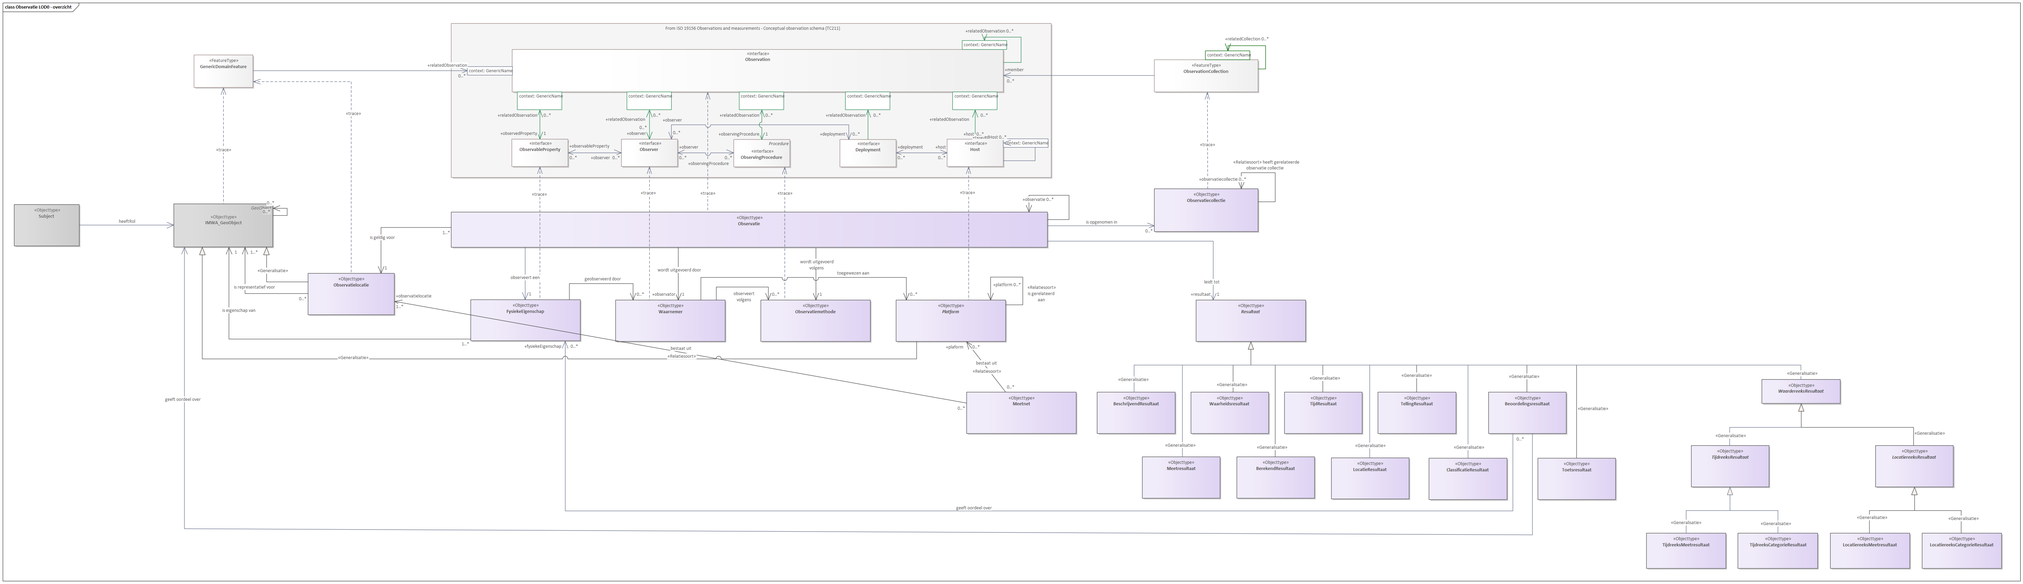
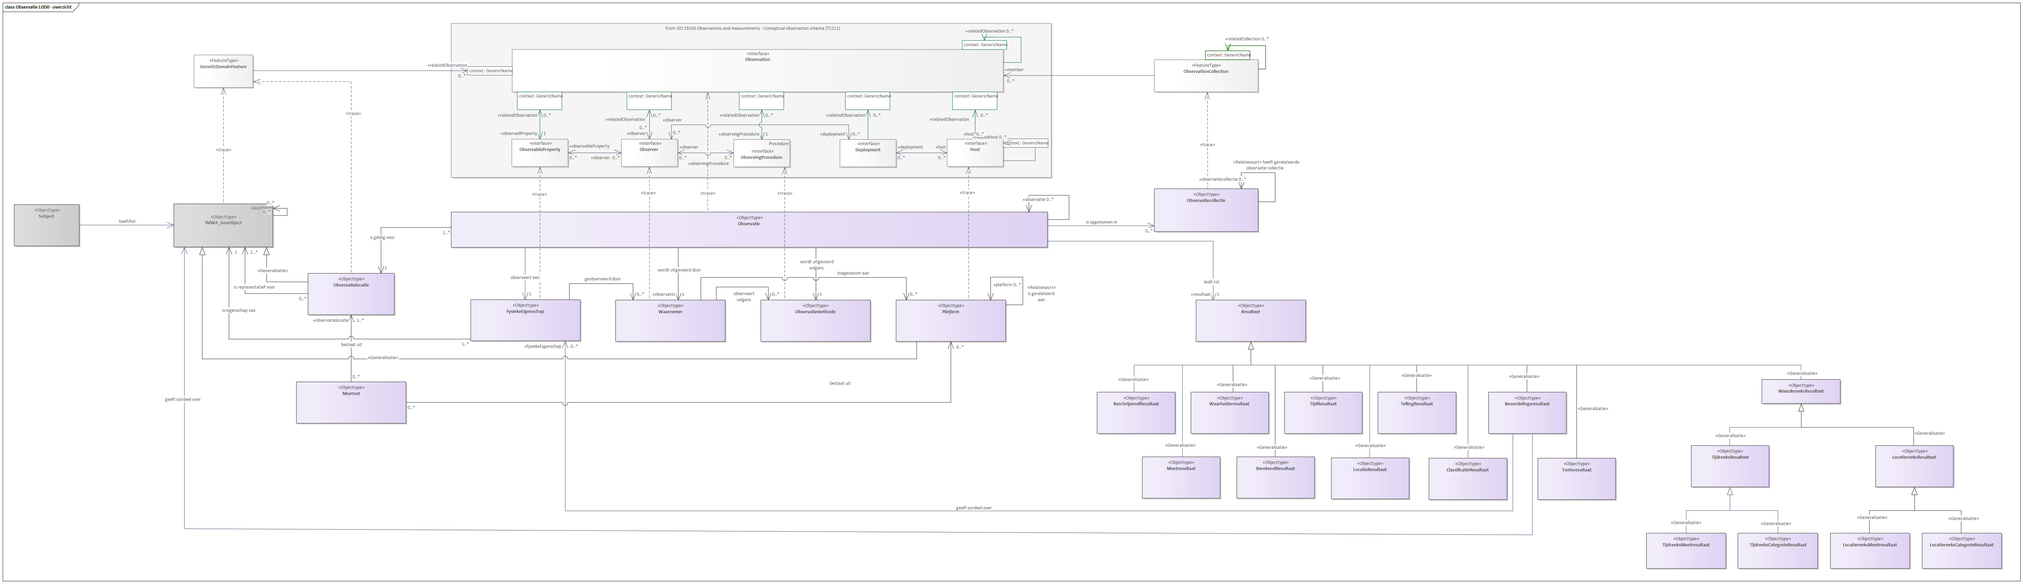
CONCEPTUAL-IMWAObservaties-2024.0.0-1-20250626-20260730-163026

diff --git a/data/IMWA-O-cat.respec.full.html b/data/IMWA-O-cat.respec.full.html
@@ -17,7 +17,7 @@
                             Status van dit document ...HIER INVOEGEN
                         </p></section><section id="prologue" class="informative" level="1"><h1>Proloog</h1><p>
                             Introductie ...HIER INVOEGEN
-                        </p></section><section id="cat" class="normative"><h2>Gegevensdefinitie</h2><p><b>Deze tekst is normatief.</b><!--CONCEPTUAL-IMWAObservaties-2024.0.0-1-20250626-20260730-110358 imvertor 4.5.0--></p><section id="global_package_Observatie"><h3>Domein   Observatie</h3><div class="imageinfo overview"><figure class="uml-diagram"><img id="EAID_2D4FC88F_53DB_44ec_A546_9F9D6DDCCFB6" src="data/Images/EAID_2D4FC88F_53DB_44ec_A546_9F9D6DDCCFB6.png" usemap="#imagemap-EAID_2D4FC88F_53DB_44ec_A546_9F9D6DDCCFB6" alt="Diagram: Observatie LOD0 - overzicht"><figcaption> ‒ Diagram: Observatie LOD0</figcaption></figure><map name="imagemap-EAID_2D4FC88F_53DB_44ec_A546_9F9D6DDCCFB6"><area shape="rect" alt="Observatielocatie" coords="899,798,1152,920" href="#global_class_Observatie_Observatielocatie"><area shape="rect" alt="Toetsresultaat" coords="4490,1338,4718,1460" href="#global_class_Observatie_Toetsresultaat"><area shape="rect" alt="Beoordelingsresultaat" coords="4346,1145,4574,1267" href="#global_class_Observatie_Beoordelingsresultaat"><area shape="rect" alt="LocatiereeksCategorieResultaat" coords="5612,1557,5845,1661" href="#global_class_Observatie_LocatiereeksCategorieResultaat"><area shape="rect" alt="LocatiereeksMeetresultaat" coords="5344,1557,5577,1661" href="#global_class_Observatie_LocatiereeksMeetresultaat"><area shape="rect" alt="Meetnet" coords="2822,1145,3143,1267" href="#global_class_Observatie_Meetnet"><area shape="rect" alt="BerekendResultaat" coords="3611,1334,3839,1456" href="#global_class_Observatie_BerekendResultaat"><area shape="rect" alt="TijdResultaat" coords="3750,1145,3978,1267" href="#global_class_Observatie_TijdResultaat"><area shape="rect" alt="TellingResultaat" coords="4023,1145,4252,1267" href="#global_class_Observatie_TellingResultaat"><area shape="rect" alt="Waarheidsresultaat" coords="3477,1145,3705,1267" href="#global_class_Observatie_Waarheidsresultaat"><area shape="rect" alt="Meetresultaat" coords="3335,1334,3563,1456" href="#global_class_Observatie_Meetresultaat"><area shape="rect" alt="LocatiereeksResultaat" coords="5476,1301,5704,1423" href="#global_class_Observatie_LocatiereeksResultaat"><area shape="rect" alt="TijdreeksCategorieResultaat" coords="5074,1557,5308,1661" href="#global_class_Observatie_TijdreeksCategorieResultaat"><area shape="rect" alt="TijdreeksMeetresultaat" coords="4807,1557,5040,1661" href="#global_class_Observatie_TijdreeksMeetresultaat"><area shape="rect" alt="TijdreeksResultaat" coords="4938,1301,5166,1423" href="#global_class_Observatie_TijdreeksResultaat"><area shape="rect" alt="WaardereeksResultaat" coords="5144,1108,5374,1179" href="#global_class_Observatie_WaardereeksResultaat"><area shape="rect" alt="ClassificatieResultaat" coords="4172,1338,4401,1460" href="#global_class_Observatie_ClassificatieResultaat"><area shape="rect" alt="LocatieResultaat" coords="3887,1337,4115,1458" href="#global_class_Observatie_LocatieResultaat"><area shape="rect" alt="BeschrijvendResultaat" coords="3203,1145,3432,1267" href="#global_class_Observatie_BeschrijvendResultaat"><area shape="rect" alt="Resultaat" coords="3492,876,3813,998" href="#global_class_Observatie_Resultaat"><area shape="rect" alt="Observatie" coords="1317,619,3059,723" href="#global_class_Observatie_Observatie"><area shape="rect" alt="Observatiecollectie" coords="3370,551,3674,677" href="#global_class_Observatie_Observatiecollectie"><area shape="rect" alt="Platform" coords="2616,876,2937,998" href="#global_class_Observatie_Platform"><area shape="rect" alt="Observatiemethode" coords="2221,876,2542,998" href="#global_class_Observatie_Observatiemethode"><area shape="rect" alt="Waarnemer" coords="1797,876,2118,998" href="#global_class_Observatie_Waarnemer"><area shape="rect" alt="FysiekeEigenschap" coords="1374,875,1695,996" href="#global_class_Observatie_FysiekeEigenschap"></map><p>
+                        </p></section><section id="cat" class="normative"><h2>Gegevensdefinitie</h2><p><b>Deze tekst is normatief.</b><!--CONCEPTUAL-IMWAObservaties-2024.0.0-1-20250626-20260730-163026 imvertor 4.5.0--></p><section id="global_package_Observatie"><h3>Domein   Observatie</h3><div class="imageinfo overview"><figure class="uml-diagram"><img id="EAID_2D4FC88F_53DB_44ec_A546_9F9D6DDCCFB6" src="data/Images/EAID_2D4FC88F_53DB_44ec_A546_9F9D6DDCCFB6.png" usemap="#imagemap-EAID_2D4FC88F_53DB_44ec_A546_9F9D6DDCCFB6" alt="Diagram: Observatie LOD0 - overzicht"><figcaption> ‒ Diagram: Observatie LOD0</figcaption></figure><map name="imagemap-EAID_2D4FC88F_53DB_44ec_A546_9F9D6DDCCFB6"><area shape="rect" alt="Observatielocatie" coords="899,798,1152,920" href="#global_class_Observatie_Observatielocatie"><area shape="rect" alt="Toetsresultaat" coords="4490,1338,4718,1460" href="#global_class_Observatie_Toetsresultaat"><area shape="rect" alt="Beoordelingsresultaat" coords="4346,1145,4574,1267" href="#global_class_Observatie_Beoordelingsresultaat"><area shape="rect" alt="LocatiereeksCategorieResultaat" coords="5612,1557,5845,1661" href="#global_class_Observatie_LocatiereeksCategorieResultaat"><area shape="rect" alt="LocatiereeksMeetresultaat" coords="5344,1557,5577,1661" href="#global_class_Observatie_LocatiereeksMeetresultaat"><area shape="rect" alt="Meetnet" coords="865,1115,1186,1237" href="#global_class_Observatie_Meetnet"><area shape="rect" alt="BerekendResultaat" coords="3611,1334,3839,1456" href="#global_class_Observatie_BerekendResultaat"><area shape="rect" alt="TijdResultaat" coords="3750,1145,3978,1267" href="#global_class_Observatie_TijdResultaat"><area shape="rect" alt="TellingResultaat" coords="4023,1145,4252,1267" href="#global_class_Observatie_TellingResultaat"><area shape="rect" alt="Waarheidsresultaat" coords="3477,1145,3705,1267" href="#global_class_Observatie_Waarheidsresultaat"><area shape="rect" alt="Meetresultaat" coords="3335,1334,3563,1456" href="#global_class_Observatie_Meetresultaat"><area shape="rect" alt="LocatiereeksResultaat" coords="5476,1301,5704,1423" href="#global_class_Observatie_LocatiereeksResultaat"><area shape="rect" alt="TijdreeksCategorieResultaat" coords="5074,1557,5308,1661" href="#global_class_Observatie_TijdreeksCategorieResultaat"><area shape="rect" alt="TijdreeksMeetresultaat" coords="4807,1557,5040,1661" href="#global_class_Observatie_TijdreeksMeetresultaat"><area shape="rect" alt="TijdreeksResultaat" coords="4938,1301,5166,1423" href="#global_class_Observatie_TijdreeksResultaat"><area shape="rect" alt="WaardereeksResultaat" coords="5144,1108,5374,1179" href="#global_class_Observatie_WaardereeksResultaat"><area shape="rect" alt="ClassificatieResultaat" coords="4172,1338,4401,1460" href="#global_class_Observatie_ClassificatieResultaat"><area shape="rect" alt="LocatieResultaat" coords="3887,1337,4115,1458" href="#global_class_Observatie_LocatieResultaat"><area shape="rect" alt="BeschrijvendResultaat" coords="3203,1145,3432,1267" href="#global_class_Observatie_BeschrijvendResultaat"><area shape="rect" alt="Resultaat" coords="3492,876,3813,998" href="#global_class_Observatie_Resultaat"><area shape="rect" alt="Observatie" coords="1317,619,3059,723" href="#global_class_Observatie_Observatie"><area shape="rect" alt="Observatiecollectie" coords="3370,551,3674,677" href="#global_class_Observatie_Observatiecollectie"><area shape="rect" alt="Platform" coords="2616,876,2937,998" href="#global_class_Observatie_Platform"><area shape="rect" alt="Observatiemethode" coords="2221,876,2542,998" href="#global_class_Observatie_Observatiemethode"><area shape="rect" alt="Waarnemer" coords="1797,876,2118,998" href="#global_class_Observatie_Waarnemer"><area shape="rect" alt="FysiekeEigenschap" coords="1374,875,1695,996" href="#global_class_Observatie_FysiekeEigenschap"></map><p>
                         <p></p>
                      </p></div><div class="imageinfo overview"><figure class="uml-diagram"><img id="EAID_8A1E1EBA_82F3_4d9c_B88D_4ACFD9DF67E0" src="data/Images/EAID_8A1E1EBA_82F3_4d9c_B88D_4ACFD9DF67E0.png" usemap="#imagemap-EAID_8A1E1EBA_82F3_4d9c_B88D_4ACFD9DF67E0" alt="Diagram: Observatie LOD1 - overzicht"><figcaption> ‒ Diagram: Observatie LOD1</figcaption></figure><map name="imagemap-EAID_8A1E1EBA_82F3_4d9c_B88D_4ACFD9DF67E0"><area shape="rect" alt="Parameter" coords="1013,1241,1304,1434" href="#global_class_Observatie_Parameter"><area shape="rect" alt="MetingTijdreeksResultaat" coords="5217,1913,5497,2076" href="#global_class_Observatie_MetingTijdreeksResultaat"><area shape="rect" alt="ObservatieRelatie" coords="3255,429,3578,540" href="#global_class_Observatie_ObservatieRelatie"><area shape="rect" alt="Beoordelingsresultaat" coords="4839,1466,5200,1665" href="#global_class_Observatie_Beoordelingsresultaat"><area shape="rect" alt="Observatielocatie" coords="853,944,1118,1123" href="#global_class_Observatie_Observatielocatie"><area shape="rect" alt="Toetsresultaat" coords="4727,1244,5088,1442" href="#global_class_Observatie_Toetsresultaat"><area shape="rect" alt="BiologischeParameterkenmerk" coords="1779,1245,2075,1442" href="#global_class_Observatie_BiologischeParameterkenmerk"><area shape="rect" alt="Parameterkenmerk" coords="1327,1241,1740,1558" href="#global_class_Observatie_Parameterkenmerk"><area shape="rect" alt="GrootheidOfTypering" coords="1047,1453,1267,1574" href="#global_class_Observatie_GrootheidOfTypering"><area shape="rect" alt="Detectiegrens" coords="2306,1226,2669,1365" href="#global_class_Observatie_Detectiegrens"><area shape="rect" alt="CategorieLocatiereeksResultaat" coords="6456,1913,6805,2095" href="#global_class_Observatie_CategorieLocatiereeksResultaat"><area shape="rect" alt="MetingLocatiereeksResultaat" coords="6024,1913,6335,2112" href="#global_class_Observatie_MetingLocatiereeksResultaat"><area shape="rect" alt="LocatiereeksCategorieResultaat" coords="6408,1782,6851,1902" href="#global_class_Observatie_LocatiereeksCategorieResultaat"><area shape="rect" alt="LocatiereeksMeetresultaat" coords="5976,1782,6382,1902" href="#global_class_Observatie_LocatiereeksMeetresultaat"><area shape="rect" alt="MetadataResultaat" coords="4100,969,4461,1149" href="#global_class_Observatie_MetadataResultaat"><area shape="rect" alt="MetadataWaardereeksResultaat" coords="6190,1184,6546,1399" href="#global_class_Observatie_MetadataWaardereeksResultaat"><area shape="rect" alt="MetadataReeksPunt" coords="5830,2127,6139,2284" href="#global_class_Observatie_MetadataReeksPunt"><area shape="rect" alt="CategorieTijdreeksResultaat" coords="5614,1913,5896,2076" href="#global_class_Observatie_CategorieTijdreeksResultaat"><area shape="rect" alt="Meetnet" coords="514,1249,876,1424" href="#global_class_Observatie_Meetnet"><area shape="rect" alt="BerekendResultaat" coords="3702,1442,4062,1573" href="#global_class_Observatie_BerekendResultaat"><area shape="rect" alt="TijdResultaat" coords="3992,1244,4220,1375" href="#global_class_Observatie_TijdResultaat"><area shape="rect" alt="TellingResultaat" coords="4294,1244,4660,1406" href="#global_class_Observatie_TellingResultaat"><area shape="rect" alt="Waarheidsresultaat" coords="3695,1244,3924,1387" href="#global_class_Observatie_Waarheidsresultaat"><area shape="rect" alt="Meetresultaat" coords="3328,1442,3689,1573" href="#global_class_Observatie_Meetresultaat"><area shape="rect" alt="LocatiereeksResultaat" coords="6190,1516,6423,1637" href="#global_class_Observatie_LocatiereeksResultaat"><area shape="rect" alt="TijdreeksCategorieResultaat" coords="5553,1784,5957,1902" href="#global_class_Observatie_TijdreeksCategorieResultaat"><area shape="rect" alt="TijdreeksMeetresultaat" coords="5166,1784,5534,1902" href="#global_class_Observatie_TijdreeksMeetresultaat"><area shape="rect" alt="TijdreeksResultaat" coords="5487,1516,5721,1637" href="#global_class_Observatie_TijdreeksResultaat"><area shape="rect" alt="WaardereeksResultaat" coords="5826,1257,6176,1379" href="#global_class_Observatie_WaardereeksResultaat"><area shape="rect" alt="ResultaatKwaliteit" coords="4484,973,4837,1145" href="#global_class_Observatie_ResultaatKwaliteit"><area shape="rect" alt="ClassificatieResultaat" coords="4484,1442,4711,1573" href="#global_class_Observatie_ClassificatieResultaat"><area shape="rect" alt="LocatieResultaat" coords="4073,1442,4469,1573" href="#global_class_Observatie_LocatieResultaat"><area shape="rect" alt="BeschrijvendResultaat" coords="3396,1244,3624,1375" href="#global_class_Observatie_BeschrijvendResultaat"><area shape="rect" alt="Resultaat" coords="3690,966,4040,1141" href="#global_class_Observatie_Resultaat"><area shape="rect" alt="Observatie" coords="1144,596,3272,815" href="#global_class_Observatie_Observatie"><area shape="rect" alt="Observatiecollectie" coords="3500,597,3842,737" href="#global_class_Observatie_Observatiecollectie"><area shape="rect" alt="Platform" coords="2732,946,3143,1156" href="#global_class_Observatie_Platform"><area shape="rect" alt="Observatiemethode" coords="2282,946,2692,1197" href="#global_class_Observatie_Observatiemethode"><area shape="rect" alt="Waarnemer" coords="1835,947,2244,1166" href="#global_class_Observatie_Waarnemer"><area shape="rect" alt="FysiekeEigenschap" coords="1274,946,1779,1190" href="#global_class_Observatie_FysiekeEigenschap"></map><p>
                         <p></p>

diff --git a/data/IMWA-O-cat.respec.html b/data/IMWA-O-cat.respec.html
@@ -1,4 +1,4 @@
-<!DOCTYPE HTML><section id="cat" class="normative"><h2>Gegevensdefinitie</h2><p><b>Deze tekst is normatief.</b><!--CONCEPTUAL-IMWAObservaties-2024.0.0-1-20250626-20260730-110358 imvertor 4.5.0--></p><section id="global_package_Observatie"><h3>Domein   Observatie</h3><div class="imageinfo overview"><figure class="uml-diagram"><img id="EAID_2D4FC88F_53DB_44ec_A546_9F9D6DDCCFB6" src="data/Images/EAID_2D4FC88F_53DB_44ec_A546_9F9D6DDCCFB6.png" usemap="#imagemap-EAID_2D4FC88F_53DB_44ec_A546_9F9D6DDCCFB6" alt="Diagram: Observatie LOD0 - overzicht"><figcaption> ‒ Diagram: Observatie LOD0</figcaption></figure><map name="imagemap-EAID_2D4FC88F_53DB_44ec_A546_9F9D6DDCCFB6"><area shape="rect" alt="Observatielocatie" coords="899,798,1152,920" href="#global_class_Observatie_Observatielocatie"><area shape="rect" alt="Toetsresultaat" coords="4490,1338,4718,1460" href="#global_class_Observatie_Toetsresultaat"><area shape="rect" alt="Beoordelingsresultaat" coords="4346,1145,4574,1267" href="#global_class_Observatie_Beoordelingsresultaat"><area shape="rect" alt="LocatiereeksCategorieResultaat" coords="5612,1557,5845,1661" href="#global_class_Observatie_LocatiereeksCategorieResultaat"><area shape="rect" alt="LocatiereeksMeetresultaat" coords="5344,1557,5577,1661" href="#global_class_Observatie_LocatiereeksMeetresultaat"><area shape="rect" alt="Meetnet" coords="2822,1145,3143,1267" href="#global_class_Observatie_Meetnet"><area shape="rect" alt="BerekendResultaat" coords="3611,1334,3839,1456" href="#global_class_Observatie_BerekendResultaat"><area shape="rect" alt="TijdResultaat" coords="3750,1145,3978,1267" href="#global_class_Observatie_TijdResultaat"><area shape="rect" alt="TellingResultaat" coords="4023,1145,4252,1267" href="#global_class_Observatie_TellingResultaat"><area shape="rect" alt="Waarheidsresultaat" coords="3477,1145,3705,1267" href="#global_class_Observatie_Waarheidsresultaat"><area shape="rect" alt="Meetresultaat" coords="3335,1334,3563,1456" href="#global_class_Observatie_Meetresultaat"><area shape="rect" alt="LocatiereeksResultaat" coords="5476,1301,5704,1423" href="#global_class_Observatie_LocatiereeksResultaat"><area shape="rect" alt="TijdreeksCategorieResultaat" coords="5074,1557,5308,1661" href="#global_class_Observatie_TijdreeksCategorieResultaat"><area shape="rect" alt="TijdreeksMeetresultaat" coords="4807,1557,5040,1661" href="#global_class_Observatie_TijdreeksMeetresultaat"><area shape="rect" alt="TijdreeksResultaat" coords="4938,1301,5166,1423" href="#global_class_Observatie_TijdreeksResultaat"><area shape="rect" alt="WaardereeksResultaat" coords="5144,1108,5374,1179" href="#global_class_Observatie_WaardereeksResultaat"><area shape="rect" alt="ClassificatieResultaat" coords="4172,1338,4401,1460" href="#global_class_Observatie_ClassificatieResultaat"><area shape="rect" alt="LocatieResultaat" coords="3887,1337,4115,1458" href="#global_class_Observatie_LocatieResultaat"><area shape="rect" alt="BeschrijvendResultaat" coords="3203,1145,3432,1267" href="#global_class_Observatie_BeschrijvendResultaat"><area shape="rect" alt="Resultaat" coords="3492,876,3813,998" href="#global_class_Observatie_Resultaat"><area shape="rect" alt="Observatie" coords="1317,619,3059,723" href="#global_class_Observatie_Observatie"><area shape="rect" alt="Observatiecollectie" coords="3370,551,3674,677" href="#global_class_Observatie_Observatiecollectie"><area shape="rect" alt="Platform" coords="2616,876,2937,998" href="#global_class_Observatie_Platform"><area shape="rect" alt="Observatiemethode" coords="2221,876,2542,998" href="#global_class_Observatie_Observatiemethode"><area shape="rect" alt="Waarnemer" coords="1797,876,2118,998" href="#global_class_Observatie_Waarnemer"><area shape="rect" alt="FysiekeEigenschap" coords="1374,875,1695,996" href="#global_class_Observatie_FysiekeEigenschap"></map><p>
+<!DOCTYPE HTML><section id="cat" class="normative"><h2>Gegevensdefinitie</h2><p><b>Deze tekst is normatief.</b><!--CONCEPTUAL-IMWAObservaties-2024.0.0-1-20250626-20260730-163026 imvertor 4.5.0--></p><section id="global_package_Observatie"><h3>Domein   Observatie</h3><div class="imageinfo overview"><figure class="uml-diagram"><img id="EAID_2D4FC88F_53DB_44ec_A546_9F9D6DDCCFB6" src="data/Images/EAID_2D4FC88F_53DB_44ec_A546_9F9D6DDCCFB6.png" usemap="#imagemap-EAID_2D4FC88F_53DB_44ec_A546_9F9D6DDCCFB6" alt="Diagram: Observatie LOD0 - overzicht"><figcaption> ‒ Diagram: Observatie LOD0</figcaption></figure><map name="imagemap-EAID_2D4FC88F_53DB_44ec_A546_9F9D6DDCCFB6"><area shape="rect" alt="Observatielocatie" coords="899,798,1152,920" href="#global_class_Observatie_Observatielocatie"><area shape="rect" alt="Toetsresultaat" coords="4490,1338,4718,1460" href="#global_class_Observatie_Toetsresultaat"><area shape="rect" alt="Beoordelingsresultaat" coords="4346,1145,4574,1267" href="#global_class_Observatie_Beoordelingsresultaat"><area shape="rect" alt="LocatiereeksCategorieResultaat" coords="5612,1557,5845,1661" href="#global_class_Observatie_LocatiereeksCategorieResultaat"><area shape="rect" alt="LocatiereeksMeetresultaat" coords="5344,1557,5577,1661" href="#global_class_Observatie_LocatiereeksMeetresultaat"><area shape="rect" alt="Meetnet" coords="865,1115,1186,1237" href="#global_class_Observatie_Meetnet"><area shape="rect" alt="BerekendResultaat" coords="3611,1334,3839,1456" href="#global_class_Observatie_BerekendResultaat"><area shape="rect" alt="TijdResultaat" coords="3750,1145,3978,1267" href="#global_class_Observatie_TijdResultaat"><area shape="rect" alt="TellingResultaat" coords="4023,1145,4252,1267" href="#global_class_Observatie_TellingResultaat"><area shape="rect" alt="Waarheidsresultaat" coords="3477,1145,3705,1267" href="#global_class_Observatie_Waarheidsresultaat"><area shape="rect" alt="Meetresultaat" coords="3335,1334,3563,1456" href="#global_class_Observatie_Meetresultaat"><area shape="rect" alt="LocatiereeksResultaat" coords="5476,1301,5704,1423" href="#global_class_Observatie_LocatiereeksResultaat"><area shape="rect" alt="TijdreeksCategorieResultaat" coords="5074,1557,5308,1661" href="#global_class_Observatie_TijdreeksCategorieResultaat"><area shape="rect" alt="TijdreeksMeetresultaat" coords="4807,1557,5040,1661" href="#global_class_Observatie_TijdreeksMeetresultaat"><area shape="rect" alt="TijdreeksResultaat" coords="4938,1301,5166,1423" href="#global_class_Observatie_TijdreeksResultaat"><area shape="rect" alt="WaardereeksResultaat" coords="5144,1108,5374,1179" href="#global_class_Observatie_WaardereeksResultaat"><area shape="rect" alt="ClassificatieResultaat" coords="4172,1338,4401,1460" href="#global_class_Observatie_ClassificatieResultaat"><area shape="rect" alt="LocatieResultaat" coords="3887,1337,4115,1458" href="#global_class_Observatie_LocatieResultaat"><area shape="rect" alt="BeschrijvendResultaat" coords="3203,1145,3432,1267" href="#global_class_Observatie_BeschrijvendResultaat"><area shape="rect" alt="Resultaat" coords="3492,876,3813,998" href="#global_class_Observatie_Resultaat"><area shape="rect" alt="Observatie" coords="1317,619,3059,723" href="#global_class_Observatie_Observatie"><area shape="rect" alt="Observatiecollectie" coords="3370,551,3674,677" href="#global_class_Observatie_Observatiecollectie"><area shape="rect" alt="Platform" coords="2616,876,2937,998" href="#global_class_Observatie_Platform"><area shape="rect" alt="Observatiemethode" coords="2221,876,2542,998" href="#global_class_Observatie_Observatiemethode"><area shape="rect" alt="Waarnemer" coords="1797,876,2118,998" href="#global_class_Observatie_Waarnemer"><area shape="rect" alt="FysiekeEigenschap" coords="1374,875,1695,996" href="#global_class_Observatie_FysiekeEigenschap"></map><p>
                         <p></p>
                      </p></div><div class="imageinfo overview"><figure class="uml-diagram"><img id="EAID_8A1E1EBA_82F3_4d9c_B88D_4ACFD9DF67E0" src="data/Images/EAID_8A1E1EBA_82F3_4d9c_B88D_4ACFD9DF67E0.png" usemap="#imagemap-EAID_8A1E1EBA_82F3_4d9c_B88D_4ACFD9DF67E0" alt="Diagram: Observatie LOD1 - overzicht"><figcaption> ‒ Diagram: Observatie LOD1</figcaption></figure><map name="imagemap-EAID_8A1E1EBA_82F3_4d9c_B88D_4ACFD9DF67E0"><area shape="rect" alt="Parameter" coords="1013,1241,1304,1434" href="#global_class_Observatie_Parameter"><area shape="rect" alt="MetingTijdreeksResultaat" coords="5217,1913,5497,2076" href="#global_class_Observatie_MetingTijdreeksResultaat"><area shape="rect" alt="ObservatieRelatie" coords="3255,429,3578,540" href="#global_class_Observatie_ObservatieRelatie"><area shape="rect" alt="Beoordelingsresultaat" coords="4839,1466,5200,1665" href="#global_class_Observatie_Beoordelingsresultaat"><area shape="rect" alt="Observatielocatie" coords="853,944,1118,1123" href="#global_class_Observatie_Observatielocatie"><area shape="rect" alt="Toetsresultaat" coords="4727,1244,5088,1442" href="#global_class_Observatie_Toetsresultaat"><area shape="rect" alt="BiologischeParameterkenmerk" coords="1779,1245,2075,1442" href="#global_class_Observatie_BiologischeParameterkenmerk"><area shape="rect" alt="Parameterkenmerk" coords="1327,1241,1740,1558" href="#global_class_Observatie_Parameterkenmerk"><area shape="rect" alt="GrootheidOfTypering" coords="1047,1453,1267,1574" href="#global_class_Observatie_GrootheidOfTypering"><area shape="rect" alt="Detectiegrens" coords="2306,1226,2669,1365" href="#global_class_Observatie_Detectiegrens"><area shape="rect" alt="CategorieLocatiereeksResultaat" coords="6456,1913,6805,2095" href="#global_class_Observatie_CategorieLocatiereeksResultaat"><area shape="rect" alt="MetingLocatiereeksResultaat" coords="6024,1913,6335,2112" href="#global_class_Observatie_MetingLocatiereeksResultaat"><area shape="rect" alt="LocatiereeksCategorieResultaat" coords="6408,1782,6851,1902" href="#global_class_Observatie_LocatiereeksCategorieResultaat"><area shape="rect" alt="LocatiereeksMeetresultaat" coords="5976,1782,6382,1902" href="#global_class_Observatie_LocatiereeksMeetresultaat"><area shape="rect" alt="MetadataResultaat" coords="4100,969,4461,1149" href="#global_class_Observatie_MetadataResultaat"><area shape="rect" alt="MetadataWaardereeksResultaat" coords="6190,1184,6546,1399" href="#global_class_Observatie_MetadataWaardereeksResultaat"><area shape="rect" alt="MetadataReeksPunt" coords="5830,2127,6139,2284" href="#global_class_Observatie_MetadataReeksPunt"><area shape="rect" alt="CategorieTijdreeksResultaat" coords="5614,1913,5896,2076" href="#global_class_Observatie_CategorieTijdreeksResultaat"><area shape="rect" alt="Meetnet" coords="514,1249,876,1424" href="#global_class_Observatie_Meetnet"><area shape="rect" alt="BerekendResultaat" coords="3702,1442,4062,1573" href="#global_class_Observatie_BerekendResultaat"><area shape="rect" alt="TijdResultaat" coords="3992,1244,4220,1375" href="#global_class_Observatie_TijdResultaat"><area shape="rect" alt="TellingResultaat" coords="4294,1244,4660,1406" href="#global_class_Observatie_TellingResultaat"><area shape="rect" alt="Waarheidsresultaat" coords="3695,1244,3924,1387" href="#global_class_Observatie_Waarheidsresultaat"><area shape="rect" alt="Meetresultaat" coords="3328,1442,3689,1573" href="#global_class_Observatie_Meetresultaat"><area shape="rect" alt="LocatiereeksResultaat" coords="6190,1516,6423,1637" href="#global_class_Observatie_LocatiereeksResultaat"><area shape="rect" alt="TijdreeksCategorieResultaat" coords="5553,1784,5957,1902" href="#global_class_Observatie_TijdreeksCategorieResultaat"><area shape="rect" alt="TijdreeksMeetresultaat" coords="5166,1784,5534,1902" href="#global_class_Observatie_TijdreeksMeetresultaat"><area shape="rect" alt="TijdreeksResultaat" coords="5487,1516,5721,1637" href="#global_class_Observatie_TijdreeksResultaat"><area shape="rect" alt="WaardereeksResultaat" coords="5826,1257,6176,1379" href="#global_class_Observatie_WaardereeksResultaat"><area shape="rect" alt="ResultaatKwaliteit" coords="4484,973,4837,1145" href="#global_class_Observatie_ResultaatKwaliteit"><area shape="rect" alt="ClassificatieResultaat" coords="4484,1442,4711,1573" href="#global_class_Observatie_ClassificatieResultaat"><area shape="rect" alt="LocatieResultaat" coords="4073,1442,4469,1573" href="#global_class_Observatie_LocatieResultaat"><area shape="rect" alt="BeschrijvendResultaat" coords="3396,1244,3624,1375" href="#global_class_Observatie_BeschrijvendResultaat"><area shape="rect" alt="Resultaat" coords="3690,966,4040,1141" href="#global_class_Observatie_Resultaat"><area shape="rect" alt="Observatie" coords="1144,596,3272,815" href="#global_class_Observatie_Observatie"><area shape="rect" alt="Observatiecollectie" coords="3500,597,3842,737" href="#global_class_Observatie_Observatiecollectie"><area shape="rect" alt="Platform" coords="2732,946,3143,1156" href="#global_class_Observatie_Platform"><area shape="rect" alt="Observatiemethode" coords="2282,946,2692,1197" href="#global_class_Observatie_Observatiemethode"><area shape="rect" alt="Waarnemer" coords="1835,947,2244,1166" href="#global_class_Observatie_Waarnemer"><area shape="rect" alt="FysiekeEigenschap" coords="1274,946,1779,1190" href="#global_class_Observatie_FysiekeEigenschap"></map><p>
                         <p></p>
